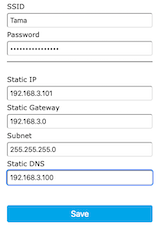
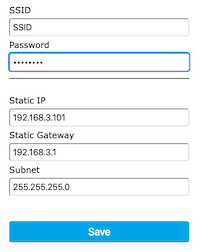
Fixed static IP setting.

Changed region(s): [[0.0312, 0.0, 0.9688, 0.8289], [0.0312, 0.8596, 0.9688, 0.9825]]

diff --git a/firmware/iot_rgb_led_matrix_firmware/config.h b/firmware/iot_rgb_led_matrix_firmware/config.h
@@ -1,9 +1,14 @@
 #pragma once
 
+static const char * AP_PASSWORD = "rgbledmatrix";
+static const IPAddress STATIC_IP(192, 168, 3, 101);
+static const IPAddress STATIC_GATEWAY(192, 168, 3, 1);
+static const IPAddress STATIC_SUBNET(255, 255, 255, 0);
+
 static const unsigned int SERVER_PORT = 7777;
 static const unsigned int TIMEOUT_MS = 5;
 
-#define BUFFER_SIZE 48 * 32
+#define BUFFER_SIZE 48 * 32 + 1
 
 #define CLK 14
 #define OE  13

diff --git a/README.md b/README.md
@@ -123,11 +123,26 @@ The ESP32 is programmed via Arduino IDE and needs the following libraries
 
 ### Firmware
 
-The ESP32 needs to have its firmware uploaded before it can recieve the data stream from the client. The client must be on the same network and be provided with the IP of the ESP32.
+The ESP32 needs to have its firmware uploaded before it can recieve the data stream from the client (Python script). The client must be on the same network and be provided with the IP of the ESP32.
 
-The WiFi credentials need to be entered using the WiFi access point created by the ESP32 (named `ESP32_xxxxxxxx`), from the address http://192.168.4.1. A static IP can be assigned, which is recommended.
+The firmware upload can be done using [Arduino IDE together with the ESP32 board definitions](https://docs.espressif.com/projects/arduino-esp32/en/latest/installing.html#installing-using-boards-manager).
 
-![The WiFi credentials setup screen.](./setup.png)
+The board must be configured as follows from the `Tools` menu in Arduino IDE:
+* Board: ESP32 Dev Module
+* CPU Frequency: 240MHz
+* Flash Frequency: 80MHz
+* Flash size: 4MB (32Mb)
+* Partition Scheme: Default 4MB with spiffs
+* Core Debul Level: None
+* PSRAM: Disabled
+
+The static IP address must be set in the `config.h` file prior to firmware upload.
+
+The WiFi credentials need to be entered once using the WiFi access point created by the ESP32 (named `RGBLEDMatrix-XXXXXXXX`), from the address http://192.168.4.1. By default the access point password is `rgbledmatirx`, once connected to the local WiFi this is no longer needed.
+
+![WiFi configuration setup page.](./setup.png)
+
+Note that the static IP information displayed on the WiFI configuration panel is not persistent over reboots and needs to be configured in the code.
 
 Upon a successful connection to the local WiFi network the matrix displays its IP address.
 
